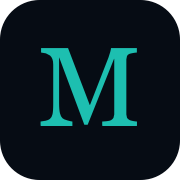
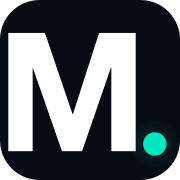
Brand mark refresh + constellation hub across Promise & Possible
Favicon — implements the "Memory Spark" brand mark per the design brief:
- favicon.svg: M brightened from cream to pure white (sharper at small
  sizes); teal #00E5C2 spark dot with soft glow halo on navy.
- favicon-32.png: regenerated from a size-optimised SVG variant
  (slightly lighter M weight, chunkier dot, tighter corner radius)
  so the mark actually reads at tab-icon scale.
- apple-touch-icon.png: re-rasterised from the updated main SVG at
  180x180. Crisp white M + teal spark.

Cream-warm tone — bumped from #EFE6CE to #F4EDDD. Reads slightly
lighter and warmer; vault card, promise/possible card framing, and
constellation hub all benefit.

Constellation hub — extracted as a shared .constellation-hub class
and dropped into both Our Promise and What's Possible grids. Same
cream-warm dot + ring + 4 radial lines emerging from the centre
toward the card corners. Hidden on mobile (1-column).

diff --git a/index.html b/index.html
@@ -47,7 +47,7 @@
   --teal-deck:#1DBFB0;       /* deck-matched teal — Mine. + Your data. (TEMPO beat 2) */
   --taupe:#C7C2B6;           /* deck-matched taupe — Your rules. (TEMPO beat 3) */
   --cream:#E8FAF8;            /* deck-matched cream — text (TEMPO beat 1) */
-  --cream-warm:#EFE6CE;       /* warm surface cream — vault card, future card surfaces */
+  --cream-warm:#F4EDDD;       /* warm surface cream — vault card, future card surfaces */
   --orange:#FF8855;          /* Beta Users CTA */
   --orange-hi:#FF9D6E;        /* Beta Users hover */
   --green:#4CD680;
@@ -213,7 +213,7 @@ nav.scroll{background:rgba(6,12,20,.96);backdrop-filter:blur(24px);border-color:
 .promise-headline{max-width:880px;margin-top:18px;color:var(--cream);font-family:'Fraunces',serif;font-size:clamp(40px,5.5vw,68px);font-style:italic;font-weight:300;letter-spacing:-.045em;line-height:1.04}
 .promise-headline em{color:var(--teal-deck);font-style:italic}
 .promise-supporting{max-width:680px;margin-top:22px;color:var(--cream);font-family:'DM Sans',sans-serif;font-size:clamp(18px,1.8vw,22px);line-height:1.55;font-weight:400}
-.promise-grid{display:grid;grid-template-columns:repeat(2,minmax(0,1fr));gap:18px;margin-top:52px}
+.promise-grid{position:relative;display:grid;grid-template-columns:repeat(2,minmax(0,1fr));gap:18px;margin-top:52px}
 .promise-card{position:relative;min-height:188px;padding:28px 28px 28px 40px;border:1px solid rgba(239,230,206,.24);border-radius:16px;background:rgba(239,230,206,.03);transition:border-color .3s,transform .3s}
 .promise-card::before{content:"";position:absolute;left:0;top:18px;bottom:18px;width:10px;border-radius:0 5px 5px 0;background:var(--cream-warm);opacity:.9}
 .promise-card:hover{border-color:rgba(239,230,206,.38);transform:translateY(-2px)}
@@ -270,13 +270,13 @@ nav.scroll{background:rgba(6,12,20,.96);backdrop-filter:blur(24px);border-color:
 
 .possible-grid{position:relative;display:grid;grid-template-columns:repeat(2,minmax(0,1fr));gap:18px;margin-top:52px}
 
-/* Constellation hub — one Mina, four expressions */
-.possible-hub{position:absolute;left:50%;top:50%;transform:translate(-50%,-50%);width:96px;height:96px;pointer-events:none;z-index:3;opacity:.5}
-.possible-hub svg{display:block;width:100%;height:100%;overflow:visible}
-.possible-hub circle.hub-dot{fill:var(--cream-warm)}
-.possible-hub circle.hub-ring{fill:none;stroke:var(--cream-warm);stroke-width:.6}
-.possible-hub line{stroke:var(--cream-warm);stroke-width:.8;stroke-linecap:round}
-@media (max-width:680px){.possible-hub{display:none}}
+/* Constellation hub — shared across grids (Our Promise + What's Possible) */
+.constellation-hub{position:absolute;left:50%;top:50%;transform:translate(-50%,-50%);width:96px;height:96px;pointer-events:none;z-index:3;opacity:.5}
+.constellation-hub svg{display:block;width:100%;height:100%;overflow:visible}
+.constellation-hub circle.hub-dot{fill:var(--cream-warm)}
+.constellation-hub circle.hub-ring{fill:none;stroke:var(--cream-warm);stroke-width:.6}
+.constellation-hub line{stroke:var(--cream-warm);stroke-width:.8;stroke-linecap:round}
+@media (max-width:680px){.constellation-hub{display:none}}
 
 /* Card frame — cream-warm framing matching Promise cards */
 .possible-card{position:relative;display:flex;flex-direction:column;min-height:360px;padding-left:10px;border:1px solid rgba(239,230,206,.24);border-radius:16px;background:rgba(239,230,206,.03);overflow:hidden;transition:border-color .3s,transform .3s}
@@ -493,6 +493,8 @@ nav.scroll{background:rgba(6,12,20,.96);backdrop-filter:blur(24px);border-color:
 .about-body p{margin:0;color:rgba(232,250,248,.80);font-family:'DM Sans',sans-serif;font-size:clamp(17px,1.6vw,19px);font-weight:400;line-height:1.62}
 .about-body p.about-lead{color:var(--teal-deck);font-family:'Fraunces',serif;font-size:clamp(22px,2.4vw,28px);font-style:normal;font-weight:300;letter-spacing:-.025em;line-height:1.3;margin-top:6px;margin-bottom:6px}
 .about-body p.about-lead em{color:var(--teal-deck);font-style:italic}
+.about-lead-mark{display:inline-flex;align-items:center;justify-content:center;width:1em;height:1em;margin-right:.45em;vertical-align:-.12em;color:currentColor}
+.about-lead-mark svg{width:100%;height:100%;display:block}
 @media (max-width:680px){
   #about{padding:78px 20px}
   .about-headline{font-size:clamp(30px,8vw,42px)}
@@ -857,6 +859,16 @@ footer{padding:56px 32px 40px;background:#060C14;border-top:1px solid rgba(232,2
     </p>
 
     <div class="promise-grid">
+      <div class="constellation-hub" aria-hidden="true">
+        <svg viewBox="0 0 80 80">
+          <circle class="hub-dot" cx="40" cy="40" r="2.6"/>
+          <circle class="hub-ring" cx="40" cy="40" r="9" opacity=".45"/>
+          <line x1="40" y1="40" x2="12" y2="12" opacity=".55"/>
+          <line x1="40" y1="40" x2="68" y2="12" opacity=".55"/>
+          <line x1="40" y1="40" x2="12" y2="68" opacity=".55"/>
+          <line x1="40" y1="40" x2="68" y2="68" opacity=".55"/>
+        </svg>
+      </div>
       <article class="promise-card">
         <h3>Your data. Your rules.</h3>
         <p>You control what is shared, with whom, and for how long.</p>
@@ -884,7 +896,7 @@ footer{padding:56px 32px 40px;background:#060C14;border-top:1px solid rgba(232,2
     <h2 class="possible-headline">Your health memory <span class="beat-teal">put to work</span> <span class="beat-taupe">for what matters and what&rsquo;s ahead.</span></h2>
 
     <div class="possible-grid">
-      <div class="possible-hub" aria-hidden="true">
+      <div class="constellation-hub" aria-hidden="true">
         <svg viewBox="0 0 80 80">
           <circle class="hub-dot" cx="40" cy="40" r="2.6"/>
           <circle class="hub-ring" cx="40" cy="40" r="9" opacity=".45"/>
